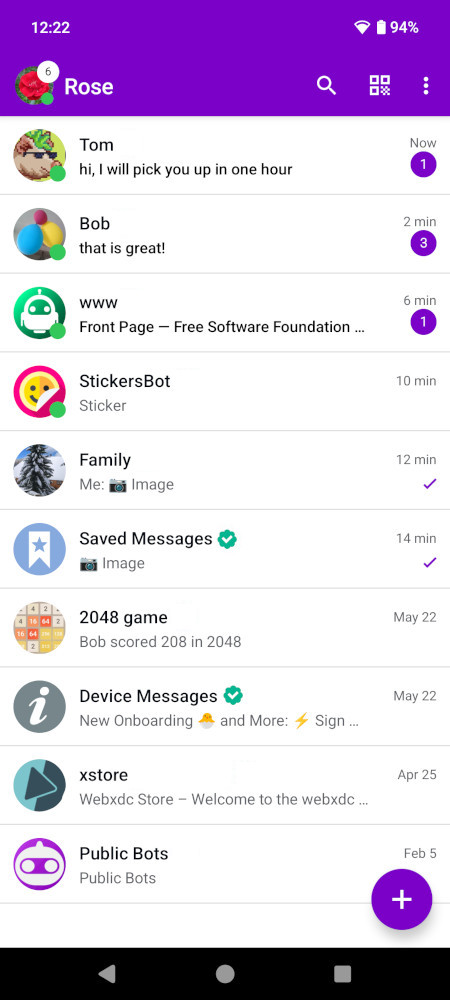
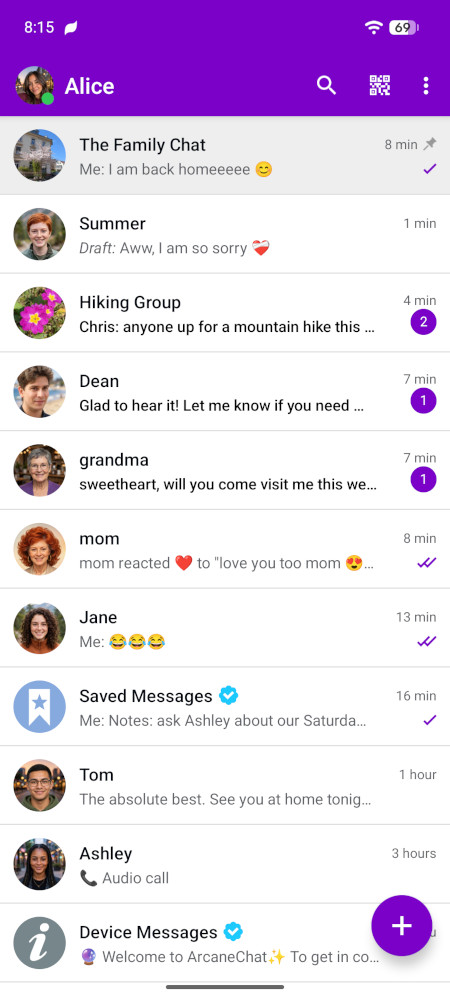
update screenshots and main page

diff --git a/www/arcanechat/index.html b/www/arcanechat/index.html
@@ -13,10 +13,9 @@
           <div class="container px-lg-5">
             <div class="row gy-5">
               <div class="col-lg-8 text-center text-lg-start">
-                <h1 class="text-white mb-4">Private chats for the family</h1>
+                <h1 class="text-white mb-4">Keeping your chats secret</h1>
                 <p class="text-white">
-                  Fast, reliable, decentralized, anonymous, secure messenger.
-                  It's magic!
+                  Resilient, decentralized, anonymous, private messenger.
                 </p>
                 <a
                   href="#download"
@@ -139,7 +138,7 @@
                 </div>
                 <h5 class="mt-4 mb-3">Fast</h5>
                 <p class="mb-0">
-                  Fast, reliable instant messaging with multi-profile and
+                  Fast, resilient instant messaging with multi-profile and
                   multi-device support
                 </p>
               </div>
@@ -252,8 +251,7 @@
                   </h3>
                   <p>
                     Yes, ArcaneChat is a
-                    <a href="https://delta.chat">Delta Chat</a> client, you can
-                    chat with Delta Chat users using ArcaneChat.
+                    <a href="https://chatmail.at">chatmail</a> client, so it is interoperable with other chatmail clients like Delta Chat.
                   </p>
                 </li>
                 <li>
@@ -292,20 +290,10 @@
                 </li>
                 <li>
                   <h3 id="contribute">I love ArcaneChat, how to contribute?</h3>
-                  If you would like to help the development of the project, to
-                  keep the <strong>arcanechat.me</strong> server running and
+                  If you would like to help the development of the project and
                   support the creation of several in-chat mini-apps and bots,
                   you can:
                   <ul>
-                    <li>
-                      Donate via
-                      <a
-                        href="https://share.weropay.eu/p/1/c/5Y4tbxzRYR"
-                        target="_blank"
-                        >Wero</a
-                      >
-                      (Europe)
-                    </li>
                     <li>
                       Donate via
                       <a href="https://ko-fi.com/adbenitez" target="_blank"
@@ -319,6 +307,15 @@
                       >
                     </li>
                     <li>
+                      Donate via
+                      <a
+                        href="https://share.weropay.eu/p/1/c/5Y4tbxzRYR"
+                        target="_blank"
+                        >Wero</a
+                      >
+                      (Europe)
+                    </li>
+                    <li>
                       Send <strong>Bitcoin</strong> to:
                       <code>bc1q4jsmy3yj6ny2mwjrm9hm2fm5m5v8ls6rmy2lka</code>
                     </li>
@@ -327,21 +324,13 @@
                       <code>0x867144c5a8D7a808E3448570dD1aC8e521D06E40</code>
                     </li>
                     <li>
-                      Send <strong>Solana</strong> to:
-                      <code>GVKAi29XujyLCsR4Ek78Yfryu6Bk4FJQy1BoHyfLmthy</code>
-                    </li>
-                    <li>
-                      Send <strong>Dash</strong> to:
-                      <code>Xsw6dV3JTsC47taHMLfbNobinSLpdd3ZxD</code>
-                    </li>
-                    <li>
                       Send <strong>Monero</strong> to:
                       <code
                         >88a1FrM8g3A7u1cTnSuxuQEvtwuw7sAhojFk8cTF1cViUkj4YRmUeVQ7KotQWtoKZ8Xd3Mc8SJcnpEyCBPHMo9bqMeb1JS5</code
                       >
                     </li>
                   </ul>
-                  Thanks a lot! your contributions are really appreciated and
+                  Thanks a lot! Your contributions are really appreciated and
                   helpful!
                 </li>
               </ul>

diff --git a/www/arcanechat/src/main.js b/www/arcanechat/src/main.js
@@ -17,7 +17,7 @@ window.addEventListener("load", () => {
     centeredSlides: true,
     loop: true,
     autoplay: {
-      delay: 2500,
+      delay: 3000,
       disableOnInteraction: false,
     },
   });
